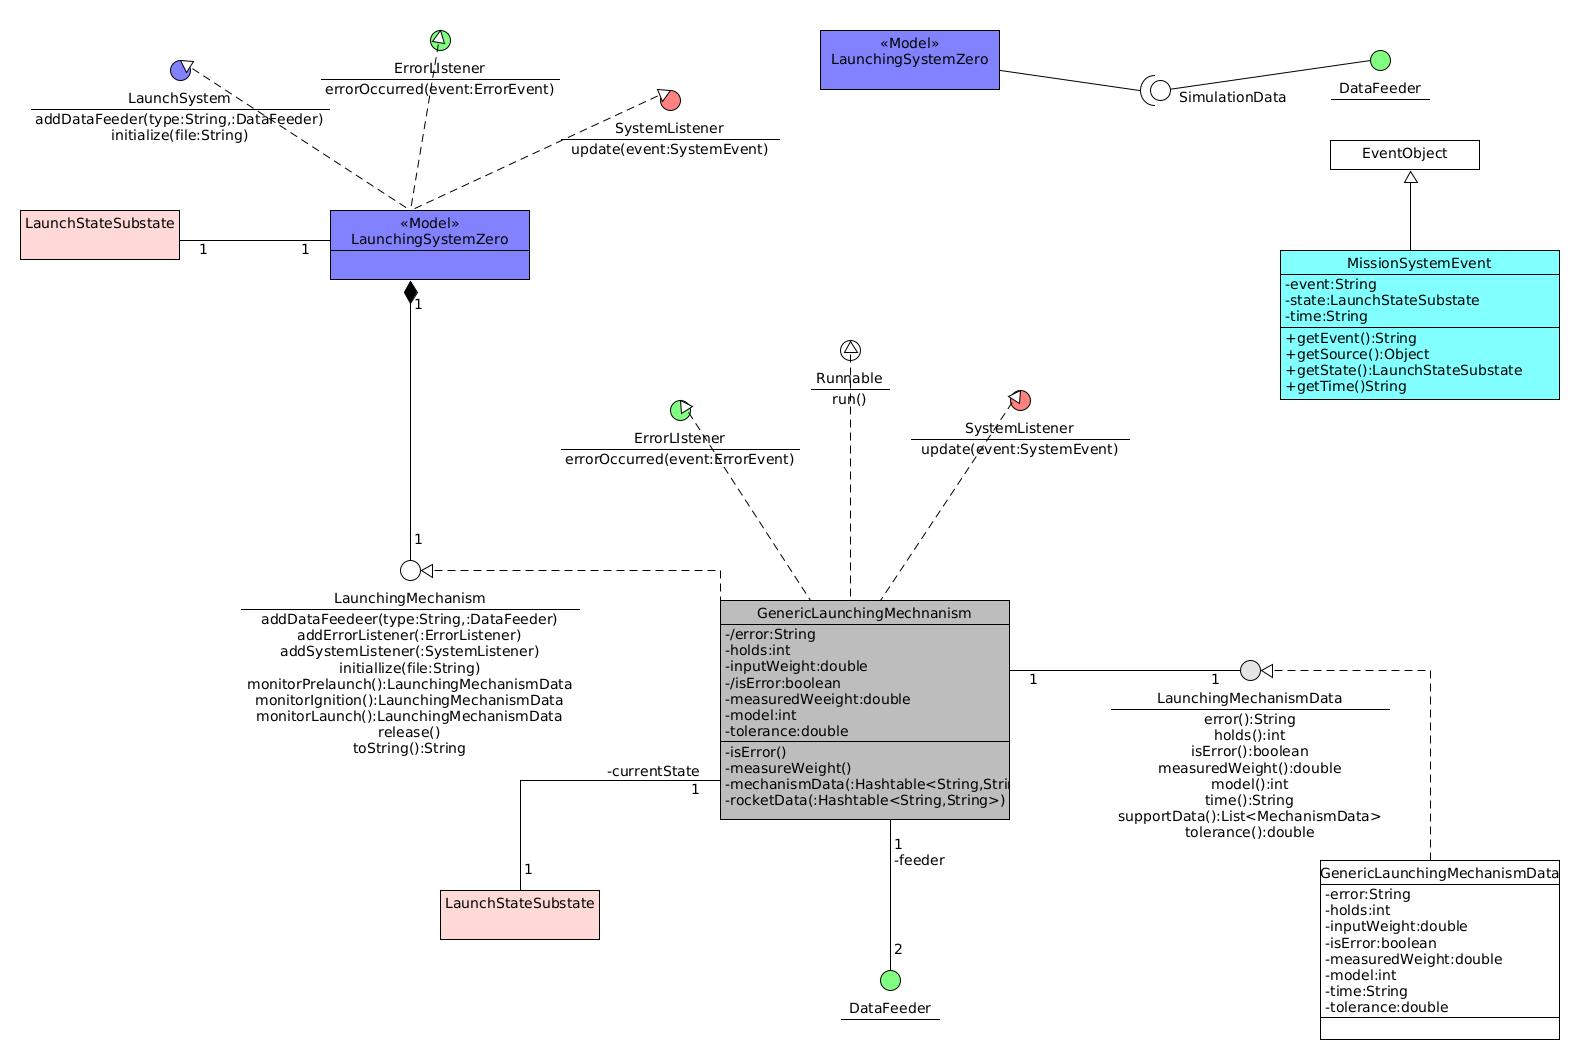
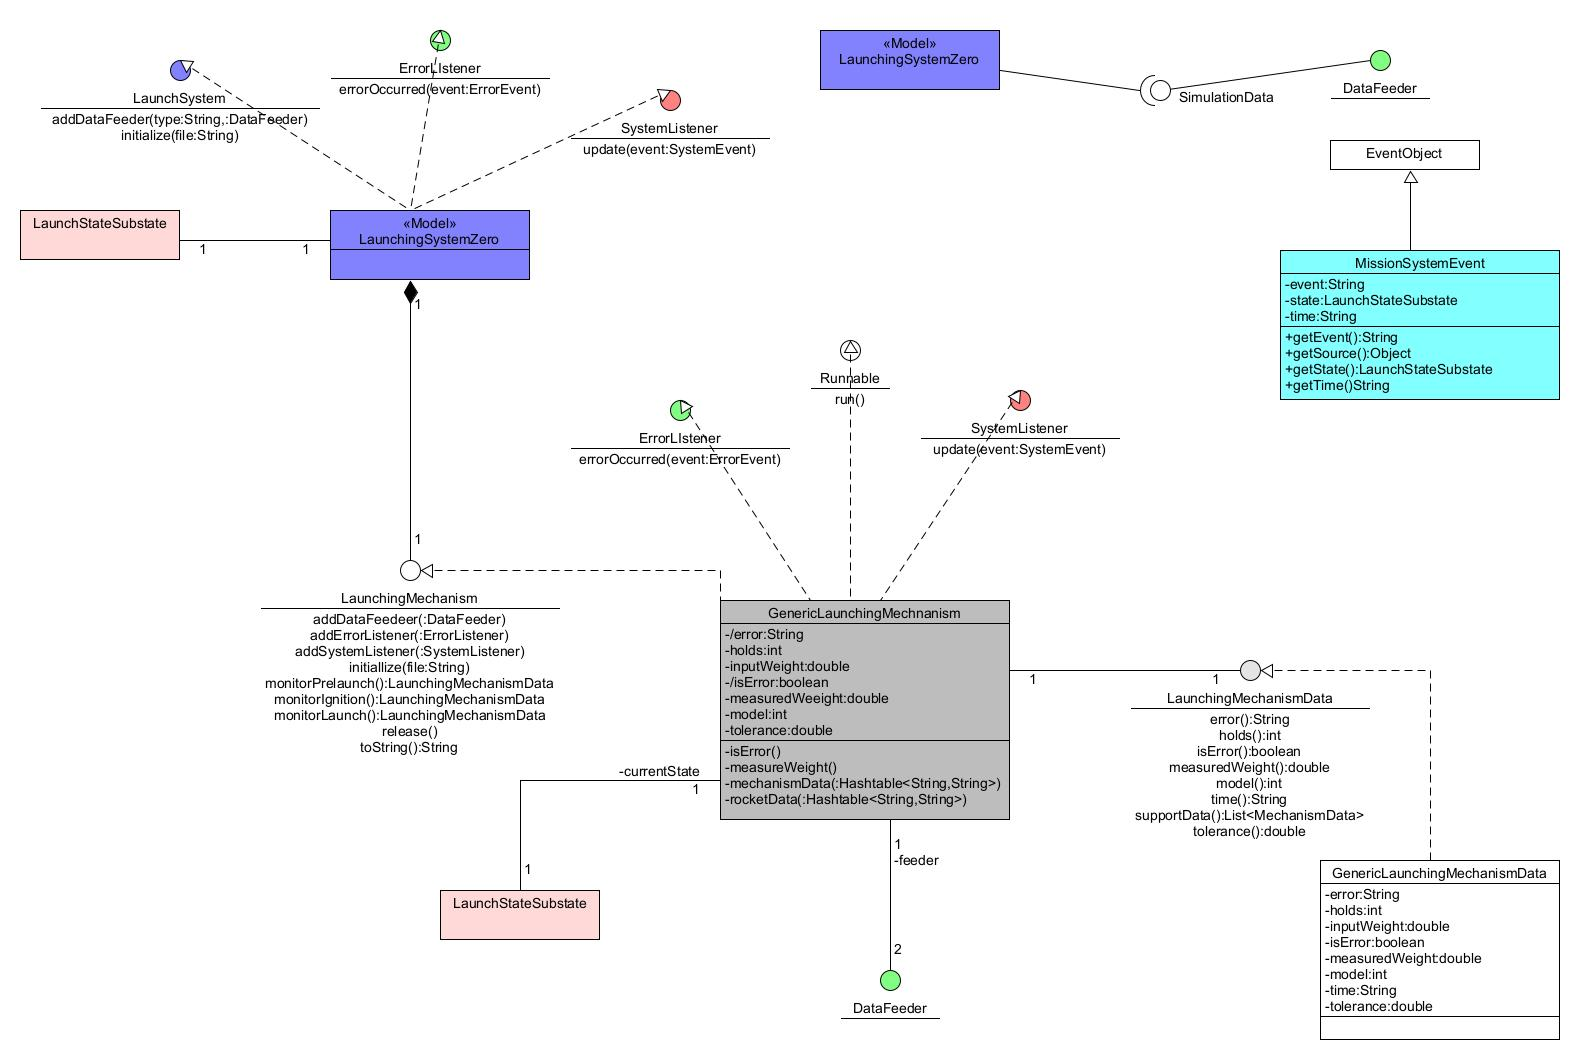
05-04-25-01

diff --git a/LaunchSystemZero.java b/LaunchSystemZero.java
@@ -52,8 +52,7 @@ implements ErrorListener,LaunchSystem,Publisher,SystemListener{
    private Thread              rt0;   //Probably not needed
    private boolean             start; //related to threading
    private boolean             kill;  //related to threading
-   private DataFeeder          mechanismDataFeeder;
-   private DataFeeder          rocketDataFeeder;
+   private DataFeeder          feeder;
 
    {
       INIT = LaunchStateSubstate.State.INITIALIZE;
@@ -78,8 +77,7 @@ implements ErrorListener,LaunchSystem,Publisher,SystemListener{
       rt0                 = null;
       start               = false;
       kill                = false;
-      mechanismDataFeeder = null;
-      rocketDataFeeder    = null;
+      feeder              = null;
    };
 
[1 lines of base64/hex data omitted]
@@ -129,13 +127,11 @@ implements ErrorListener,LaunchSystem,Publisher,SystemListener{
       if(feeder != null){
          this.simState            = Sim.YES;
          //Set all the Simualation Feeder data
-         this.rocketDataFeeder    = feeder;
-         this.mechanismDataFeeder = feeder;
+         this.feeder    = feeder;
       }
       else{
          this.simState = Sim.NO;
-         this.rocketDataFeeder    = null;
-         this.mechanismDataFeeder = null;
+         this.feeder    = null;
       }
    }
 
@@ -149,14 +145,10 @@ implements ErrorListener,LaunchSystem,Publisher,SystemListener{
          this.launchingMechanism.initialize(file);
          this.launchingMechanism.addErrorListener(this);
          this.launchingMechanism.addSystemListener(this);
-         //No longer needed like this...lots to do to get this
-         //"right"
-         //this.launchingMechanism.addDataFeeder("ROCKET",feeder);
-         //this.launchingMechanism.addDataFeeder(type,feeder);
-         
-         //LaunchingMechanismData lmd = null;
-         //lm = this.launchingMechansim.monitorInitialization();
-         //this.notify("Initilize",lmd);
+         if(this.simState == YES){
+            //Add the Data feeder to the Launching Mechanism...
+            this.launchingMechanism.addDataFeeder(this.feeder);
+         }
       }
       catch(IOException ioe){
          //this.error(ioe.getMessage(),null);--need to add!
@@ -194,9 +186,7 @@ implements ErrorListener,LaunchSystem,Publisher,SystemListener{
          this.initializeLaunchingMechanism(file);
          this.initializePayload(file);
          if(this.simState == Sim.YES){
-            LaunchStateSubstate state = this.stateSubstate;
-            this.rocketDataFeeder.setStateSubstate(state);
-            this.mechanismDataFeeder.setStateSubstate(state);
+            this.feeder.setStateSubstate(s);
          }
       }
       catch(IOException ioe){}

diff --git a/GenericLaunchingMechanism.java b/GenericLaunchingMechanism.java
@@ -52,8 +52,7 @@ ErrorListener, Runnable{
    //Weight read in from the init file
    private boolean                _start;
    private double                 _tolerance;
-   private DataFeeder             _rocketDataFeeder;
-   private DataFeeder             _mechanismDataFeeder
+   private DataFeeder             _feeder;
    private Thread                 _rt0;
    {
       INIT      = LaunchStateSubstate.INITIALIZE;
@@ -69,8 +68,7 @@ ErrorListener, Runnable{
       _holds                  = -1;
       _kill                   = false;
       _isError                = false;
-      _rocketDataFeeder       = null;
-      _mechanismDataFeeder    = null;
+      _feeder                 = null;
       _loadedWeight           = Double.NaN;
       _launchingMechanismData = null;
       _model                  = -1;
@@ -107,11 +105,11 @@ ErrorListener, Runnable{
       //error or not?
       if(inputGood && measGood){
          //Account for the State to determine errors...
-         if(this._state == INIT){}
-         //This will need to change, from empty to loaded weigt for
-         //fueling...
+         if(this._state == INIT){
+         }
          else if(this._state == PRELAUNCH){
             /*
+             * For fueling, empty to loaded weight
             edge = this._inputWeight * lim;
             if(this._inputWeight < 0.){
                edge = this._inputWeight * -lim;
@@ -132,7 +130,7 @@ ErrorListener, Runnable{
    //
    private void measureWeight(){
       try{
-         this._measuredWeight = this._rocketDataFeeder.weight();
+         this._measuredWeight = this._feeder.weight();
       }
       catch(NullPointerException npe){
          //Measure the Rocket DIRECTLY!!!!
@@ -248,13 +246,18 @@ ErrorListener, Runnable{
    //
    public void addDataFeeder(DataFeeder feeder){
       try{
-         /* TBD write later!!!
-         for(int i = 0; i < this._supports.size(); ++i){
-            MechanismSupport sup = null;
-            sup = (MechanismSupport)this._supports.get(i);
-            sup.addDataFeeder(type,feeder)
+         if(feeder != null){
+            this._feeder = feeder;
+            /* TBD write later!!!
+            for(int i = 0; i < this._supports.size(); ++i){
+               MechanismSupport sup = null;
+               sup = (MechanismSupport)this._supports.get(i);
+               //Just make a fucking Generic Type Data Feeder for
+               //Simulation!
+               sup.addDataFeeder(feeder);
+            }
+            */
          }
-         */
       }
       catch(NullPointerException npe){}
    }
